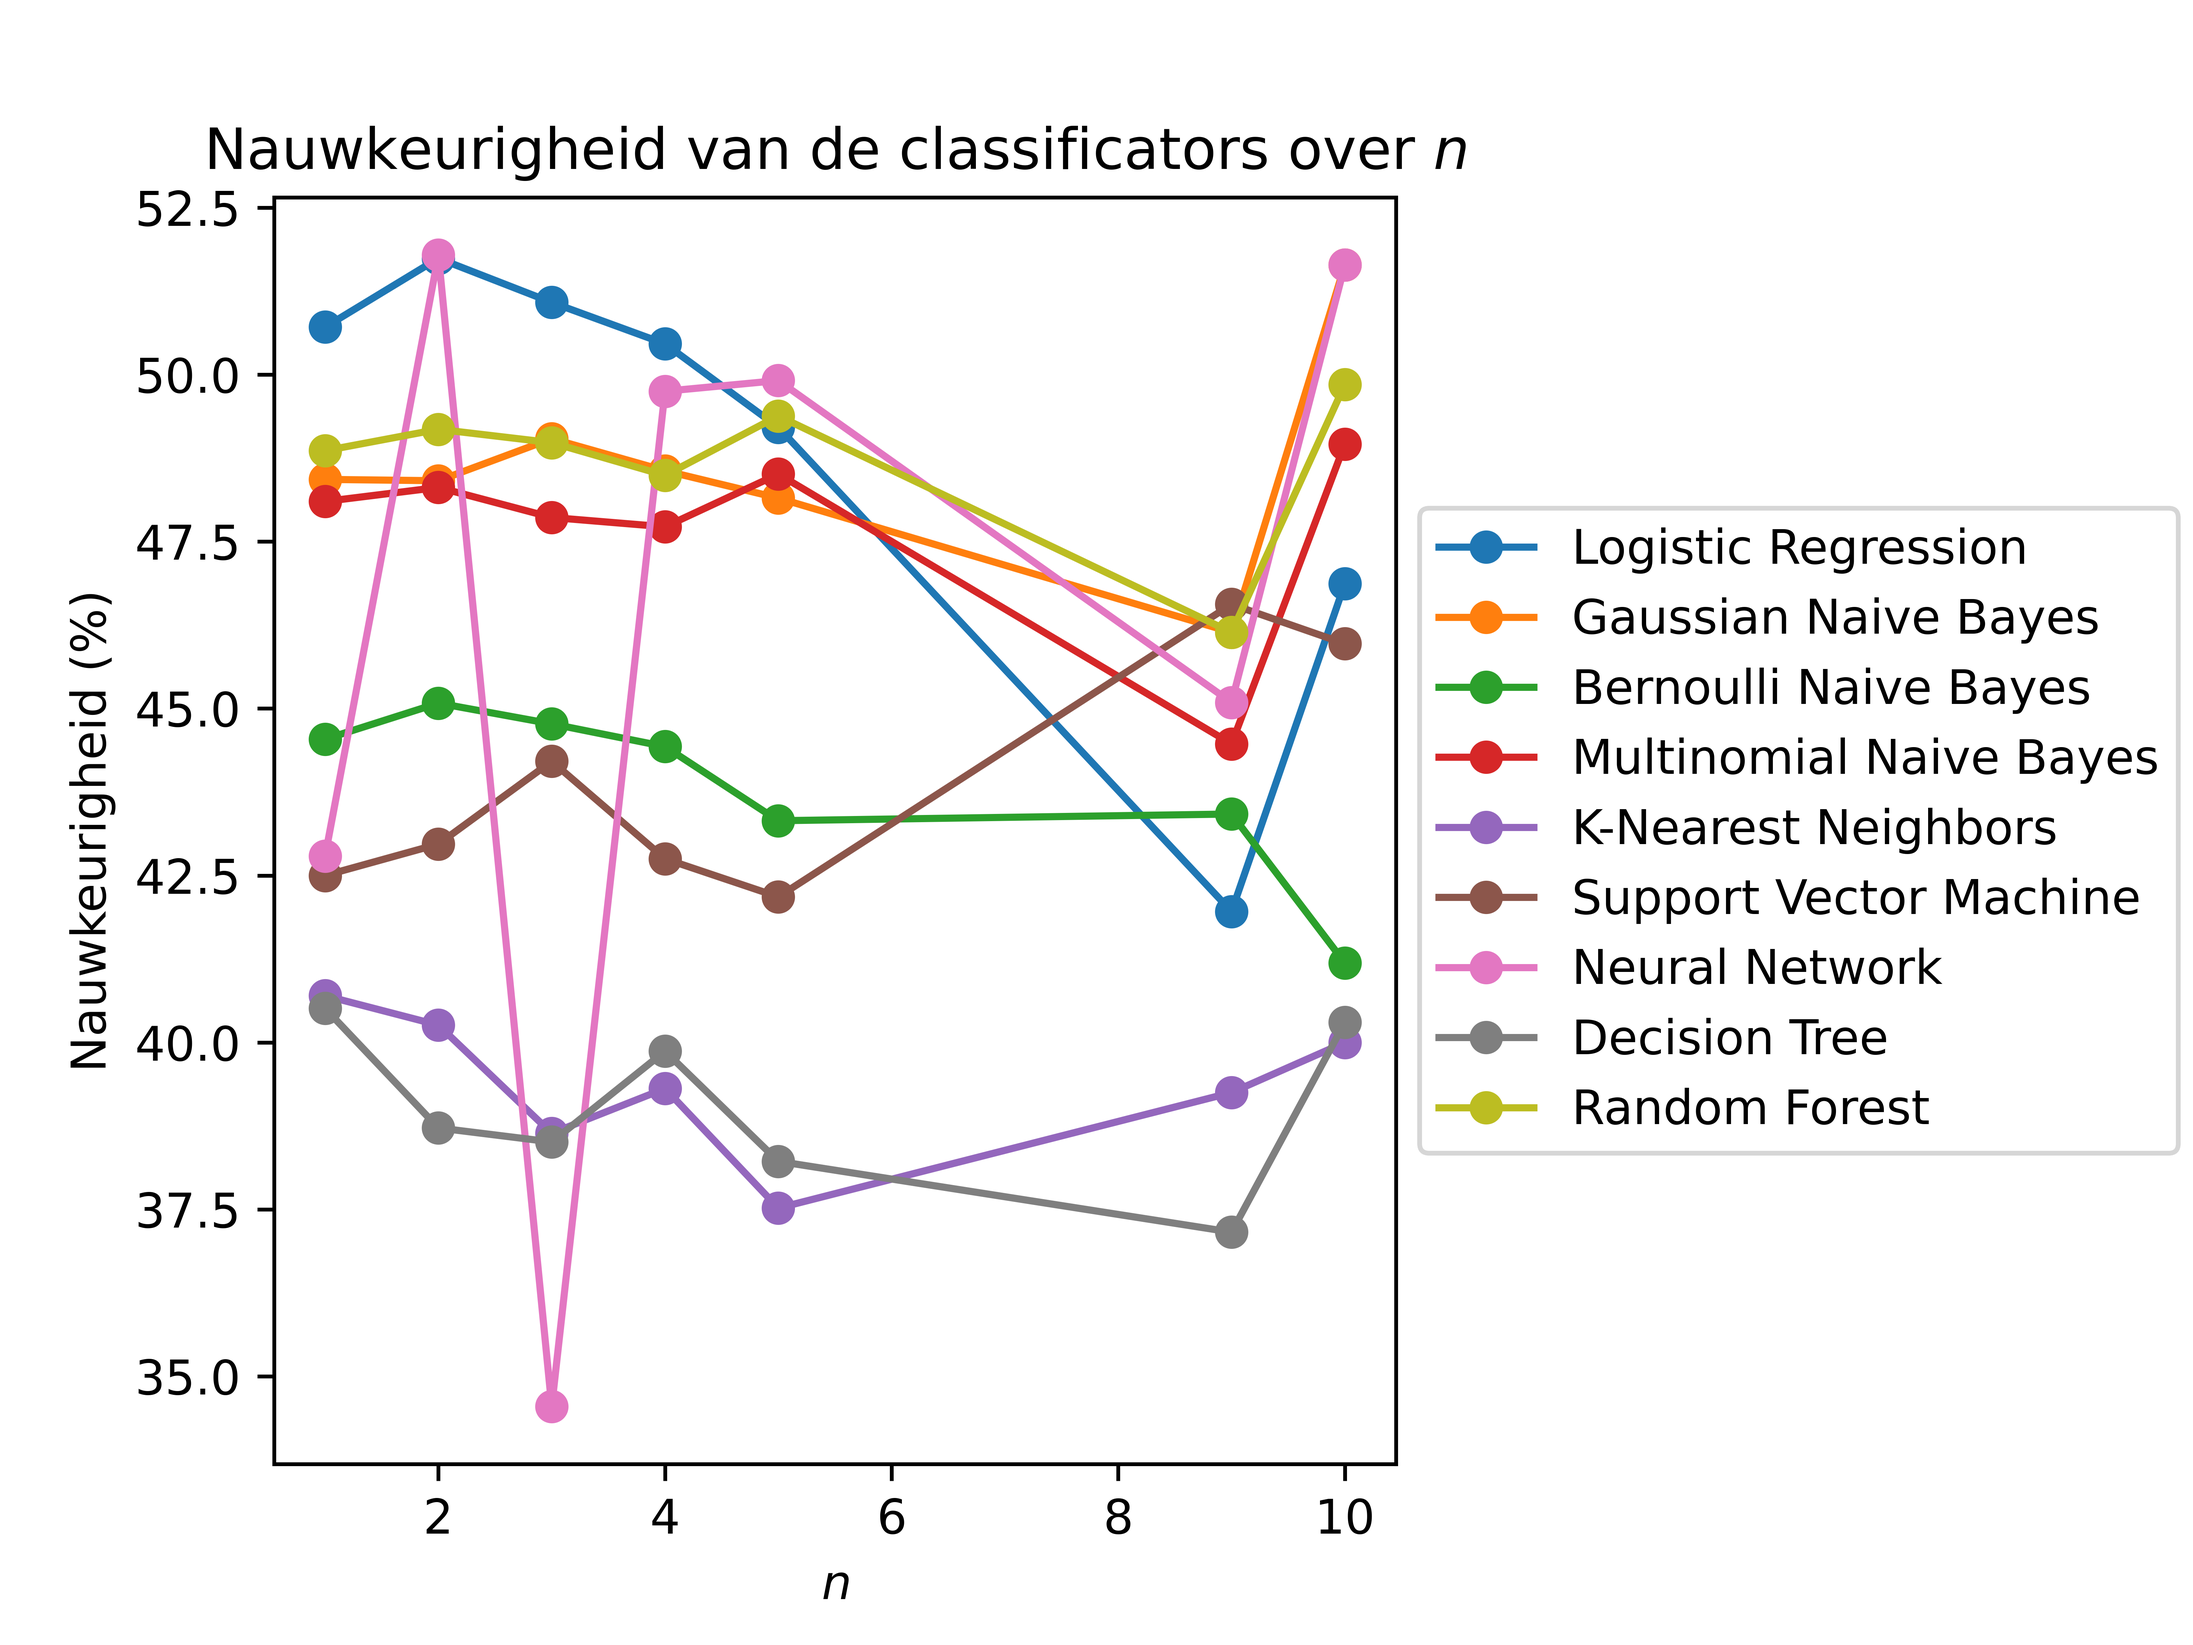
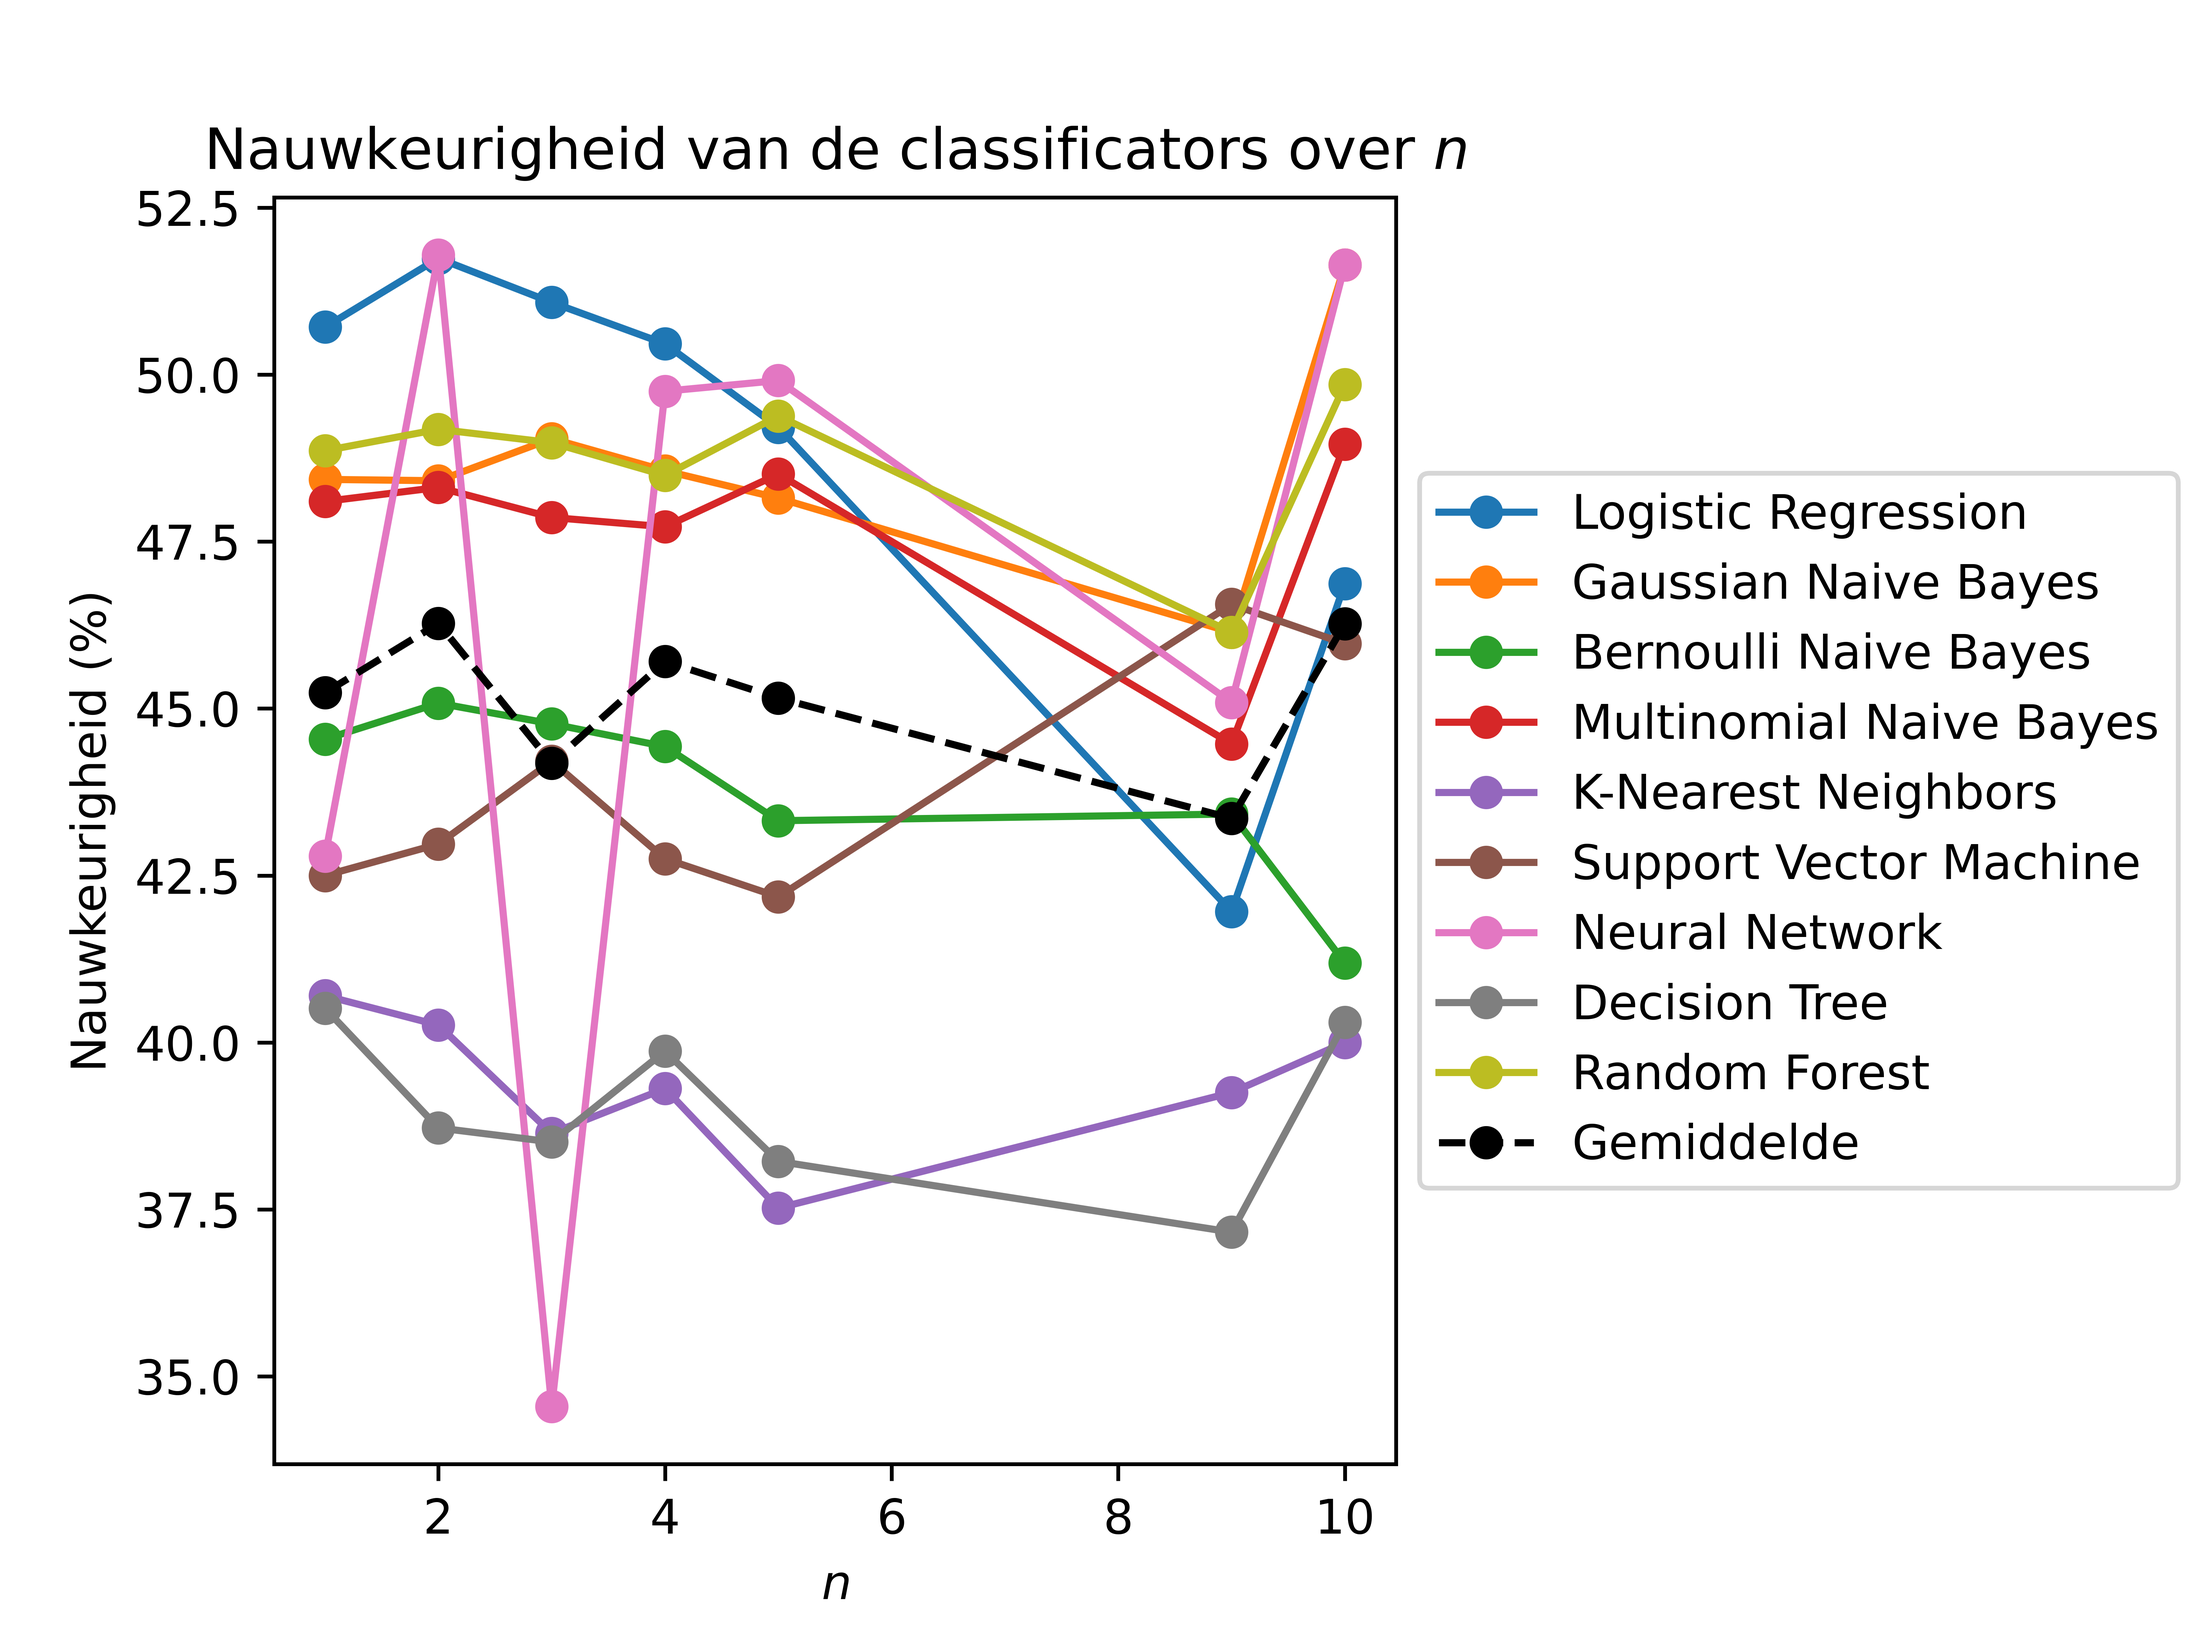
Added mean to accuracies over n plot

diff --git a/plot.py b/plot.py
@@ -8,6 +8,7 @@ Description:
 TODO
 """
 
+import numpy as np
 import pandas as pd
 import matplotlib.pyplot as plt
 import sys
@@ -154,6 +155,9 @@ def plot_accuracies_over_n(model_type):
 
     for i in range(len(models)):
         plt.plot(x, accuracies[i], label=labels[i], marker="o")
+
+    plt.plot(x, np.mean(accuracies, axis=0), "--o", label="Gemiddelde",
+             color="black")
 
     # Make the width of the plot smaller
     box = plt.gca().get_position()
